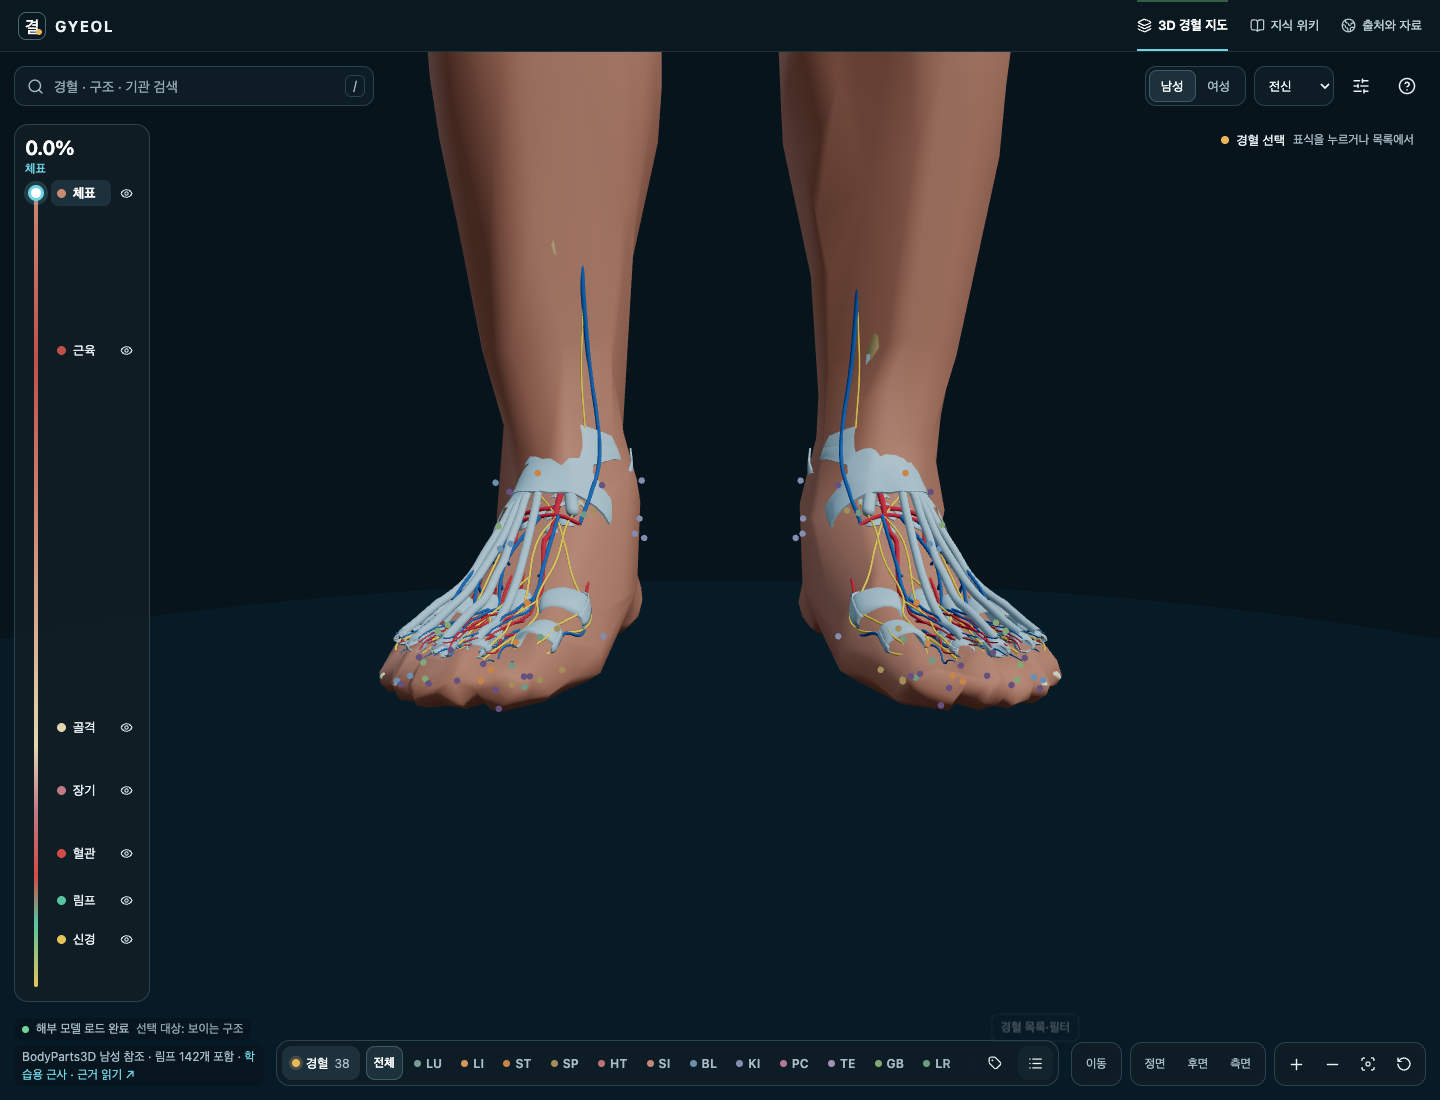
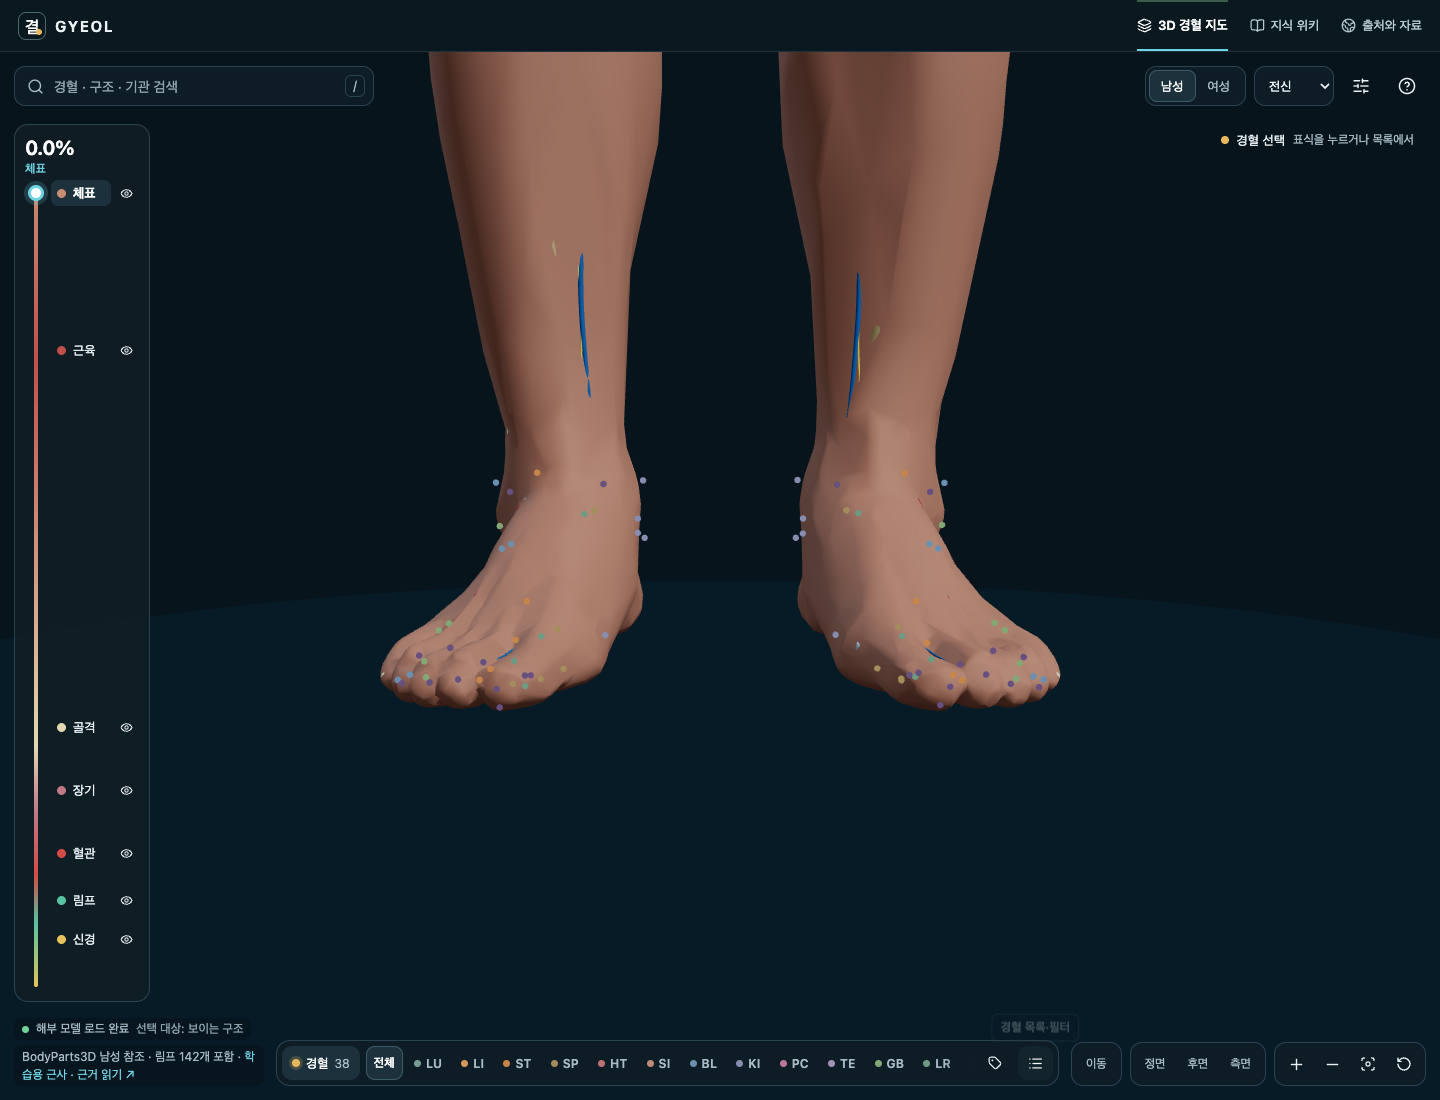
Record public Pages verification for hand alignment
Public skin.glb matches the local build; Pages smoke (software and GPU),
overlay audit and the public picking check pass; public hand and foot
captures match the local result.

Changed region(s): [[0.5625, 0.2473, 0.75, 0.6491], [0.25, 0.2473, 0.4375, 0.6491]]

diff --git a/docs/anatomy-alignment/VERIFICATION.md b/docs/anatomy-alignment/VERIFICATION.md
@@ -10,6 +10,8 @@
 
 검증(최종 코드): Node 394/394(새 단위 4개: 골격 등록·이전 등록 보존, 손뼈 쌍 잔차, 손·발·전신 노출 90% 이상 감소, 피부 세부·예산), TypeScript·프로덕션 빌드(빌드 중 경혈 표식 재생성은 바이트 동일), 프로덕션 스모크(남성 GLB 11개·위키 3D 요청0·브라우저 오류0), 근육 박리 감사 변화 없음, 시각 게이트 4화면×3상태·확장 감사 8화면×3상태 겹침0, 가독성 12px·4.5:1(90표본·8표면). 손목·발목의 세부 경계를 가까이 찍어 틈이나 음영 단차가 없음을 확인. 전체 브라우저 검사(`PLAYWRIGHT_GPU=1`, 작업자1, 10.3분)는 107/108이었습니다. 실패 1개 `source-frame`은 박리 단계 전후 카메라 자세가 마지막 자리(3×10⁻¹⁵m)만 달랐습니다. 맞춤 직후의 즉시 저장과 0.16초 뒤 컨트롤 변경 저장 사이의 부동소수점 왕복 차이로, 새 피부에서 맞춤 거리가 바뀌며 드러났고 이전 피부로 바꾸면 통과했습니다. 카메라는 실제로 움직이지 않으므로 검사가 기존 `settledCamera`로 저장이 끝나기를 기다린 뒤 비교하도록 고쳤고 3/3 통과했습니다.
 
+커밋 `2f0fbfd`의 [GitHub Pages 작업37129283280](https://github.com/jay-jang/gyeol-atlas/actions/runs/37129283280)은 빌드·게시에 성공했습니다. 공개 HTTPS의 `skin.glb`는 1,943,808바이트로 로컬과 SHA-256이 같습니다. [Pages 스모크](../acupoint-expansion/pages-verification.json)(경혈409개·정적 검색·위키 첫 3D 요청0·브라우저 오류0)는 소프트웨어 WebGL·GPU 모두 통과했고, 장면 도구 확장 감사 8화면×3상태 겹침0, [공개 경혈 누름 검사](picking-pages.json)(바뀐 표식 좌표 기준)도 통과했습니다. 공개 사이트에서 같은 카메라로 [손바닥](pages-male-hand-right-palm.png)·[손등](pages-male-hand-right-back.png)·[발](pages-male-hand-right-foot.png)을 찍어 로컬 결과와 같음을 직접 확인했습니다(로컬 ANGLE Metal).
+
 과정의 실패를 숨기지 않습니다. 처음에는 손뼈 이름 정규식이 발가락 마디뼈까지 잡아 ‘손’ 상자가 발까지 늘어난 결과를 냈고, 고친 뒤 다시 쟀습니다. 손·발만 원본 해상도로 바꿔 몸 피부를 그대로 두는 접합 방식을 먼저 시도했지만, 원본 피부가 손에서 안·바깥 면이 이어진 두꺼운 껍질이라 경계선이 영역을 닫지 못해 중단했습니다. 0.25mm 세부(111,806삼각형)는 노출이 더 적었지만 기본 모형 예산을 넘어 채택하지 않았습니다. 남은 노출(노신경 등쪽손가락가지·손가락동맥·널힘줄 가장자리, 발목 지지띠 가장자리, 큰두렁정맥)과 전신 검사에서 조금 늘어난 항목(얼굴 근육 몇 개, 가쪽넙다리피부신경 등)은 기록에 적었습니다. 실제 기기는 검증하지 않았습니다.
 
 ## 최신 후속: 경혈을 누를 때의 갑작스러운 확대, 경혈 누름 범위

diff --git a/docs/anatomy-alignment/MALE_SKELETON_REGISTRATION.md b/docs/anatomy-alignment/MALE_SKELETON_REGISTRATION.md
@@ -43,6 +43,8 @@ Z-Anatomy(Anatria-3D) 신경·혈관·인대·힘줄·림프는 하나의 균일
 
 [전신 3mm 검사](male-show-through-body.json): 보완 구조 8,490→954→357, 기본 모형까지 포함 12,391→4,836→2,960. 같은 카메라의 [손바닥 전](male-hand-before-right-palm.png)/[후](male-hand-after-right-palm.png), [손등 전](male-hand-before-right-back.png)/[후](male-hand-after-right-back.png), [발 전](male-hand-before-right-foot.png)/[후](male-hand-after-right-foot.png).
 
+공개 반영: 커밋 `2f0fbfd`(Pages 작업37129283280 성공). 공개 사이트의 [손바닥](pages-male-hand-right-palm.png)·[손등](pages-male-hand-right-back.png)·[발](pages-male-hand-right-foot.png)이 로컬 결과와 같다.
+
 ## 남은 한계
 
 - 아직 조금 보이는 것(최종 오른손 1mm 격자 광선): 노신경 등쪽손가락가지 209, 고유바닥쪽손가락동맥 70, 손바닥널힘줄 가장자리 56, 정중신경 고유바닥쪽손가락가지 28, 손목 노동맥 15. 오른발: 발바닥·발등 손가락정맥 65·44, 발목 굽힘근·종아리근·폄근 지지띠와 힘줄집 가장자리 각 20–43. 전신에서는 정강이 안쪽 큰두렁정맥(좌우 70–78선, 3mm 격자)이 남는다. 피부 바로 밑 표재 구조와 두 원본의 피부 두께 차이이며, 피부 안으로 넣으려고 구조를 따로 옮기지 않았다.
